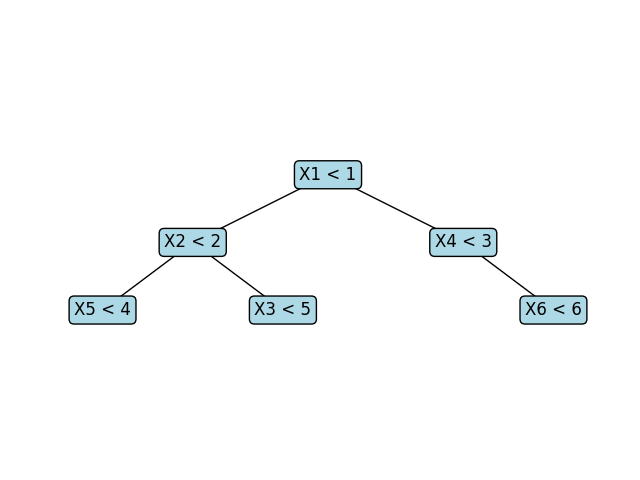
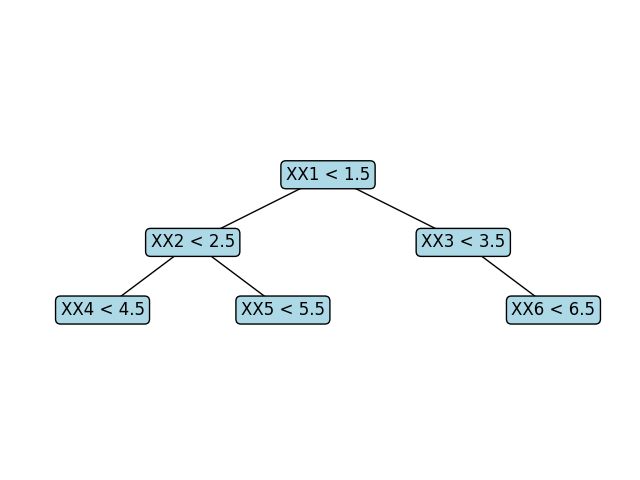
<test> [ayc122] Added test case for visualisation

diff --git a/visualisation.py b/visualisation.py
@@ -4,6 +4,7 @@ Used to generate and visualise the decision tree and the data splot
 
 import matplotlib.pyplot as plt
 import numpy as np
+from node_class import Node
 
 # Function to assign positions to the tree nodes
 def assign_positions(tree, x=0, y=0, vertical_dist=1, horizontal_dist=2, positions=None):
@@ -49,24 +50,44 @@ def plot_tree(tree, positions):
     ax.set_axis_off()
     plt.savefig("tree.png")
 
-# binary_tree = {
-#     'value': 1,
-#     'attribute': 'X1',
-#     'left': {
-#         'value': 2,
-#         'attribute': 'X2',
-#         'left': {'value': 4, 'attribute': 'X5'},
-#         'right': {'value': 5, 'attribute': 'X3'}
-#     },
-#     'right': {
-#         'value': 3,
-#         'attribute': 'X4',
-#         'right': {'value': 6, 'attribute': 'X6'}
-#     }
-# }
 
-# # Assign positions to the tree nodes
-# positions = assign_positions(binary_tree)
 
-# # Plot the tree
-# plot_tree(binary_tree, positions)
+if __name__ == "__main__":
+    root = Node()
+    root.attribute = "X1"
+    root.val = 1.5
+
+    # Left child of root
+    root.left = Node()
+    root.left.attribute = "X2"
+    root.left.val = 2.5
+
+    # Right child of root
+    root.right = Node()
+    root.right.attribute = "X3"
+    root.right.val = 3.5
+
+    # Left child of the left node (leaf node)
+    root.left.left = Node()
+    root.left.left.attribute = "X4"
+    root.left.left.val = 4.5
+    root.left.left.leaf = True  # Mark this as a leaf node
+
+    # Right child of the left node (leaf node)
+    root.left.right = Node()
+    root.left.right.attribute = "X5"
+    root.left.right.val = 5.5
+    root.left.right.leaf = True  # Mark this as a leaf node
+
+    # Right child of the right node (leaf node)
+    root.right.right = Node()
+    root.right.right.attribute = "X6"
+    root.right.right.val = 6.5
+    root.right.right.leaf = True  # Mark this as a leaf node
+
+
+    # # Assign positions to the tree nodes
+    positions = assign_positions(root)
+
+    # # Plot the tree
+    plot_tree(root, positions)
